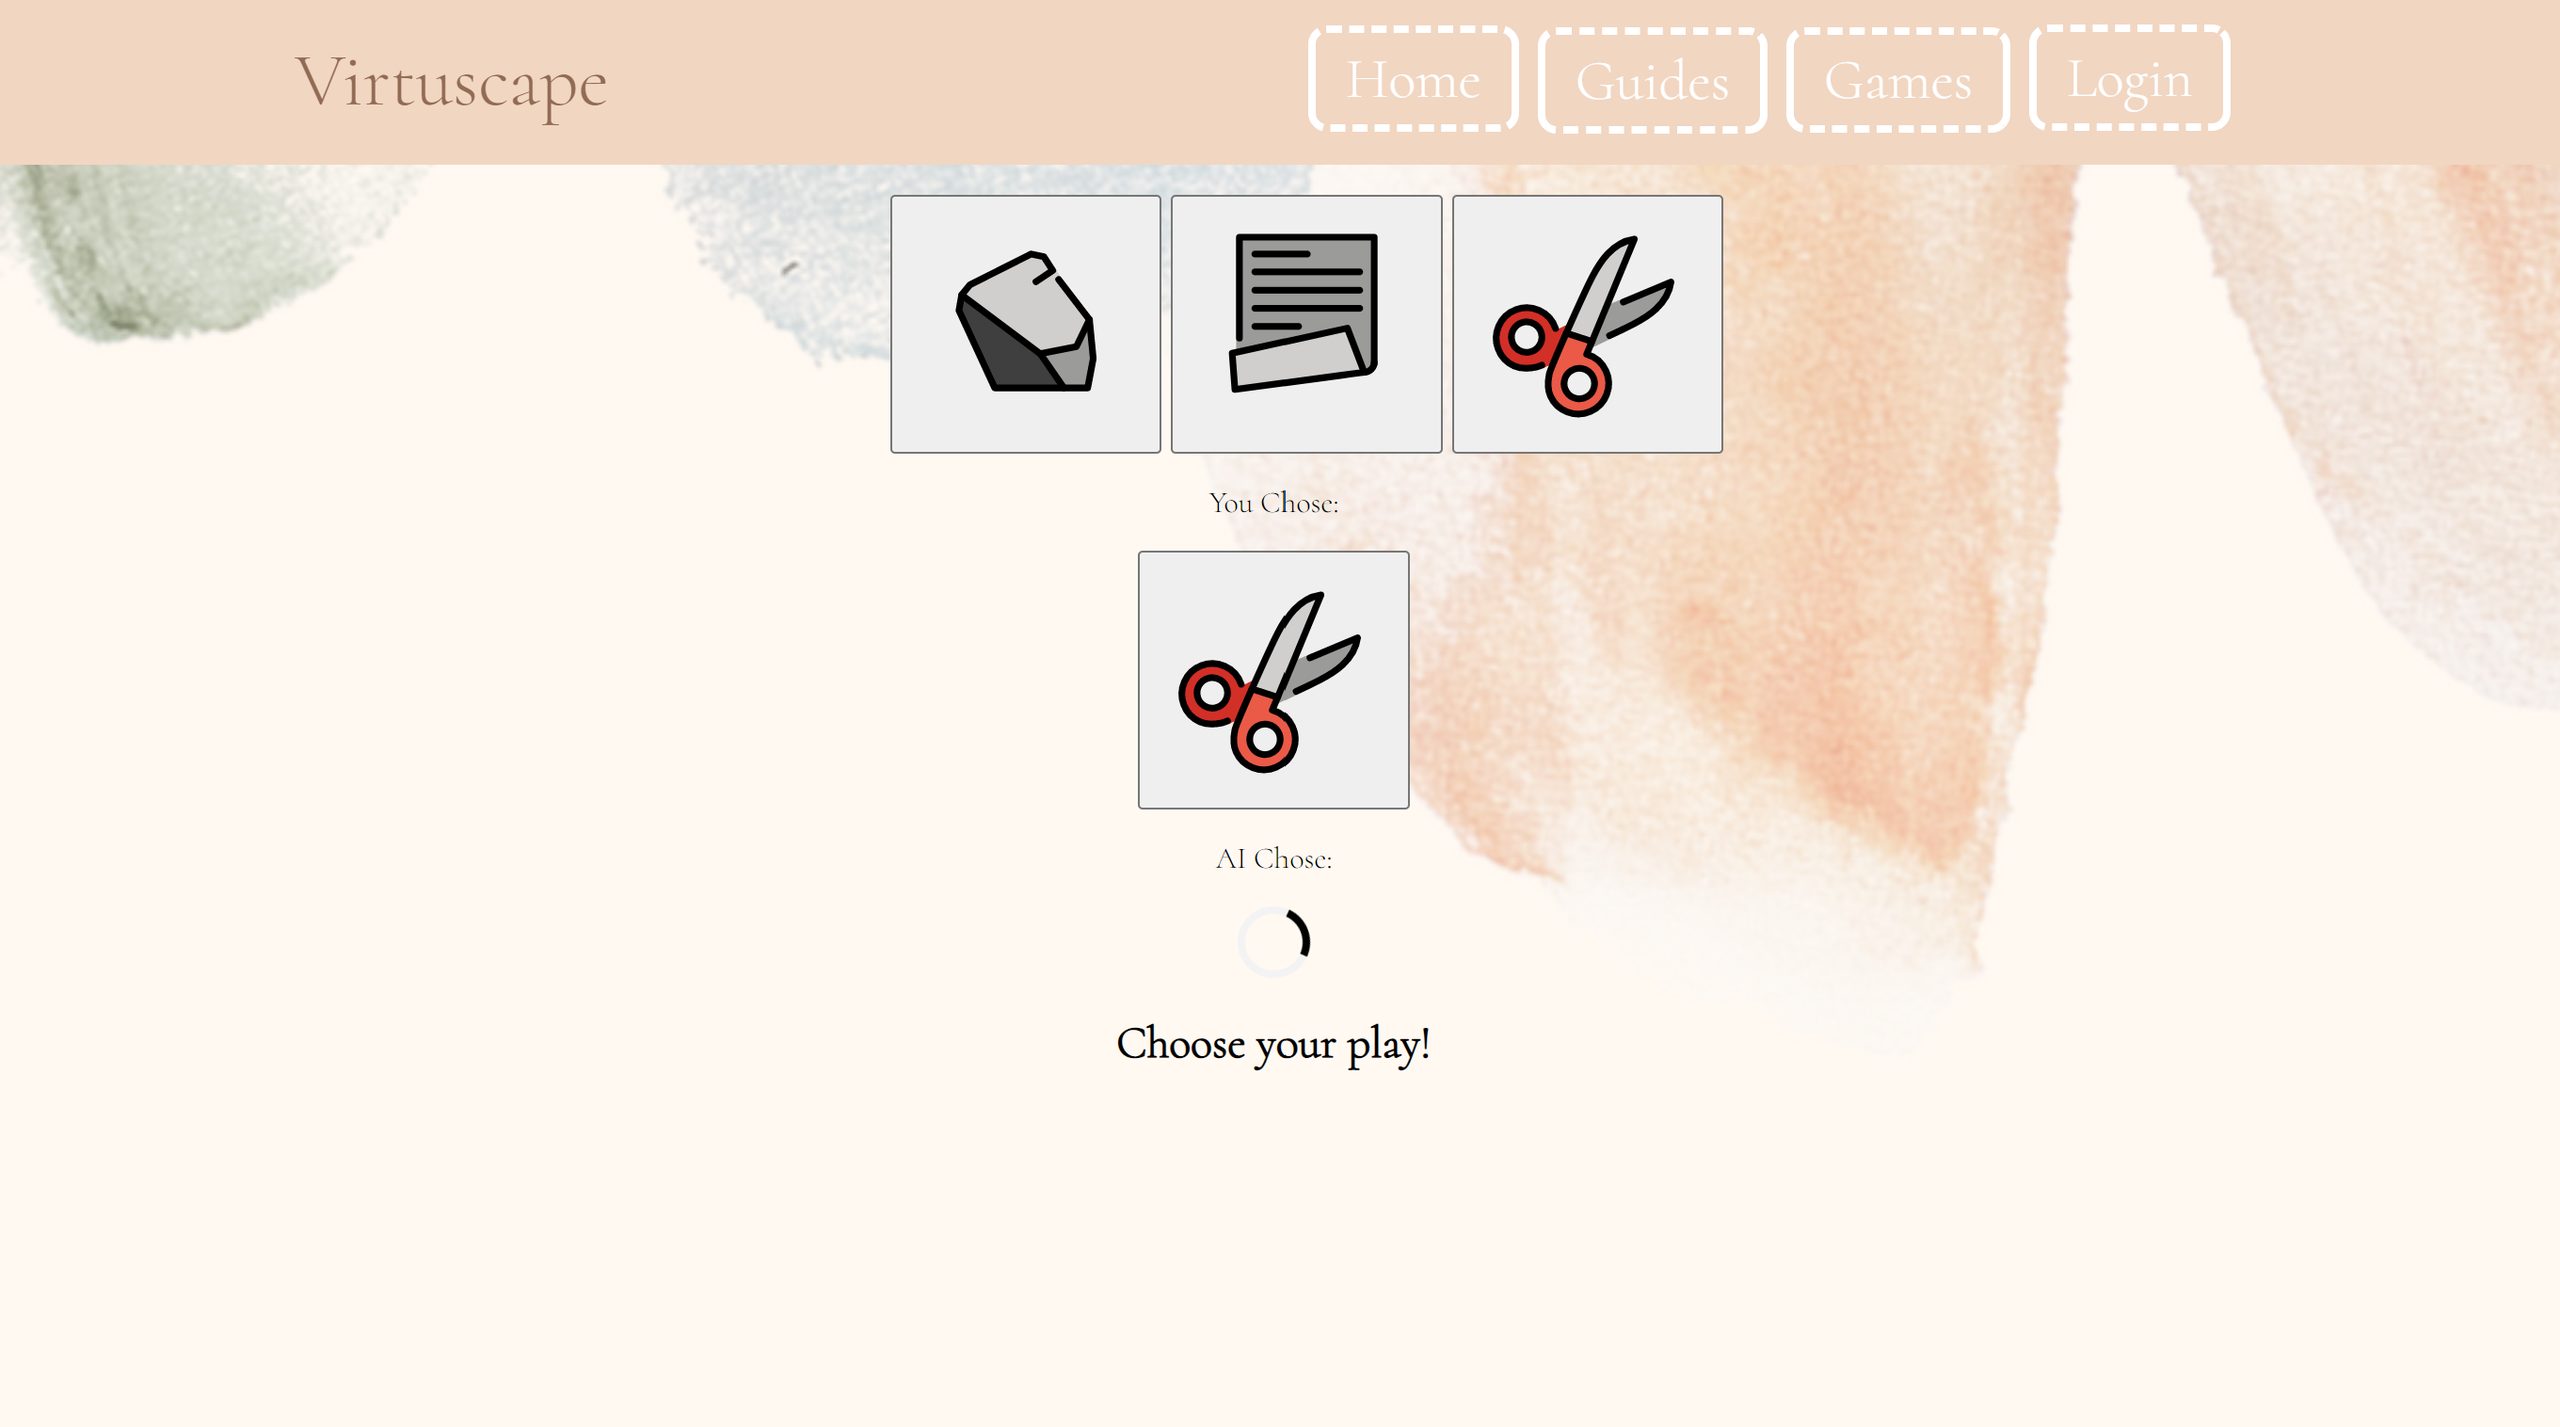
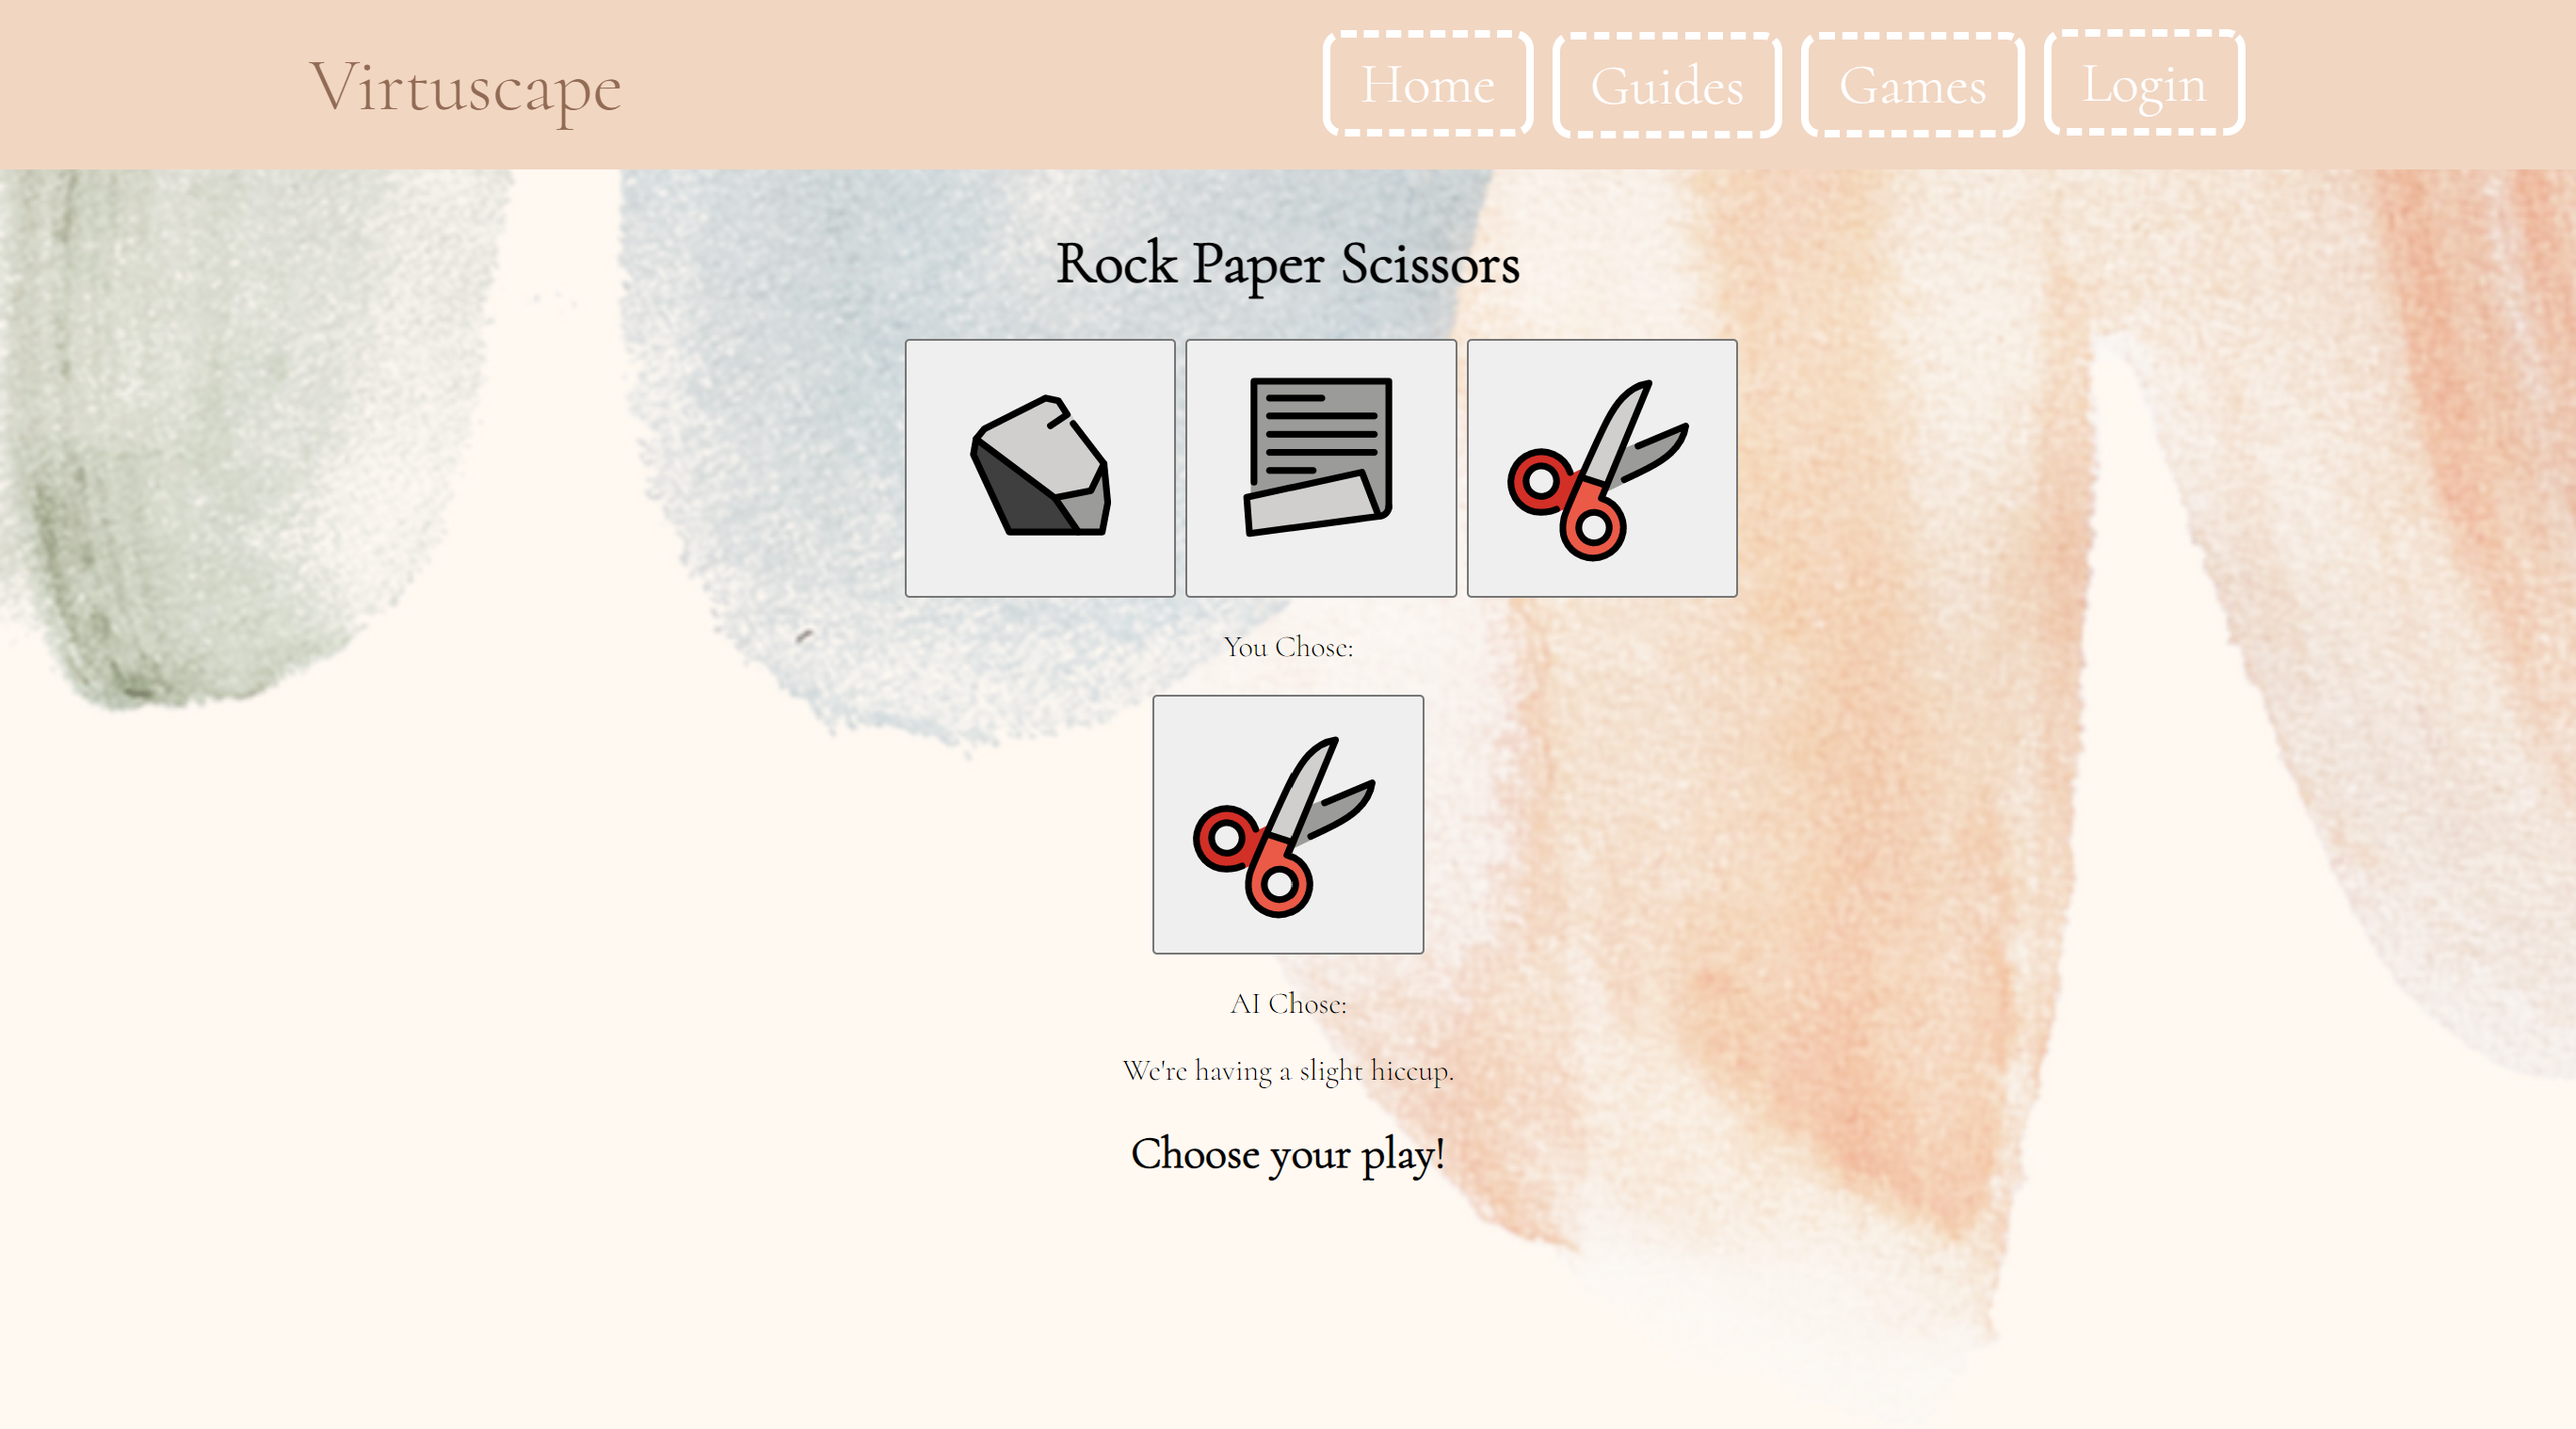
updated the rps with error code from pull and changed css

Changed region(s): [[0.0, 0.0, 1.0, 0.8991]]

diff --git a/frontend/src/routes/games/rock-paper-scissor.js b/frontend/src/routes/games/rock-paper-scissor.js
@@ -116,8 +116,8 @@ export default function RockPaperScissor() {
     }
     return (
         <>
-<<<<<<< HEAD
-            <div id = "rpscontainer" class = "container">
+            <div class = "container" id = "rpscontainer">
+                <h1>Rock Paper Scissors</h1>
                 <ul id={'rps-choices'}>
                     {buttonData.map(c => {
                         const props = {
@@ -134,50 +134,13 @@ export default function RockPaperScissor() {
                     })}
                 </ul>
                 <p>You Chose:</p>
-                {userChoice
-                    ? (<ImageButton onClick={() => {
-                        console.log(userChoice, choiceId[userChoice]);
-                        console.log(aiChoice, choiceId[aiChoice]);
-                    }}
-                                    value={buttonData[choiceId[userChoice]].value}
-                                    image={buttonData[choiceId[userChoice]].image}/>)
-                    : (<></>)
-                }
+                {renderUserChoice()}
                 <p>AI Chose: </p>
-                <div id ="ai">
-                    {aiChoice
-                        ? (<ImageButton onClick={() => {
-                            console.log(aiChoice, choiceId[aiChoice])
-                        }}
-                                        value={buttonData[choiceId[aiChoice]].value}
-                                        image={buttonData[choiceId[aiChoice]].image}/>)
-                        : (fetching ? (<div className={'spinner'}></div>) : (<></>))
-                    }
-                </div>
+                    <div id = "ai">
+                        {renderAiChoice()}
+                    </div>
                 <h2>{message}</h2>
             </div>
-=======
-            <ul id={'rps-choices'}>
-                {buttonData.map(c => {
-                    const props = {
-                        onClick: () => {
-                            setUserChoice(c.value);
-                            setAiChoice('');
-                            setGameRound(gameRound + 1);
-                            setFetching(true);
-                        }, ...c
-                    };
-                    return <li key={c.key}>
-                        {ImageButton(props)}
-                    </li>
-                })}
-            </ul>
-            <p>You Chose:</p>
-            {renderUserChoice()}
-            <p>AI Chose: </p>
-            {renderAiChoice()}
-            <h2>{message}</h2>
->>>>>>> 749d10edaee5df012e27f0b845a742619f685b3c
         </>
     )
 }

diff --git a/frontend/src/routes/games/guessing.js b/frontend/src/routes/games/guessing.js
@@ -19,7 +19,7 @@ export default function Guessing() {
         let ignore = false;
 
         async function startFetching() {
-            const response = await fetch('http://localhost:4000/guess');
+            const response = await fetch('http://localhost:3000/guess');
             try {
                 const data = await response.json();
                 console.log({data});

diff --git a/frontend/src/routes/games/rock-paper-scissor.css b/frontend/src/routes/games/rock-paper-scissor.css
@@ -1,11 +1,16 @@
 #rpscontainer {
-  height: 90vh;
+  height: 100vh;
+  position: fixed;
+  width: 100vw;
+}
+
+#rpscontainer h1 {
+  margin-top: 30px;
 }
 
 #rps-choices li {
     display: inline-block;
     margin-right: 5px;
-    margin-top: 50px;
 }
 
 /* centers the spinner*/
